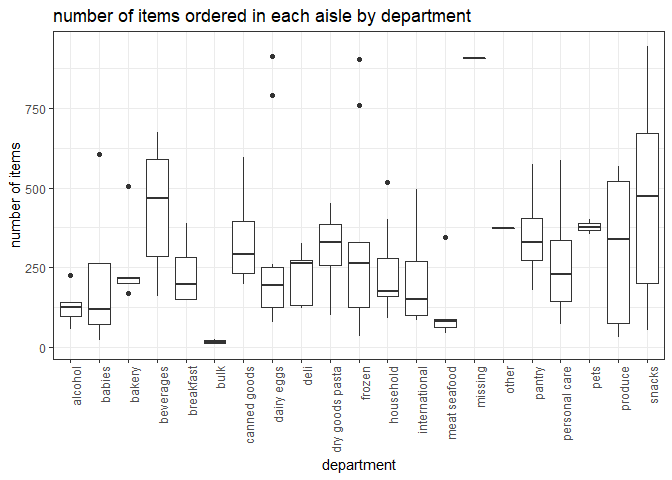
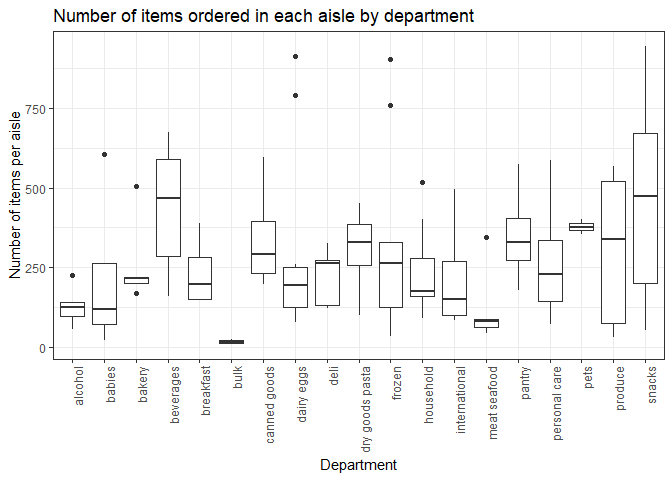
Proof read edits

diff --git a/homework_3.md b/homework_3.md
@@ -69,6 +69,11 @@ brfss %>%
   count(state) %>% 
     ggplot(aes(x = year, y = n, color = state)) +
   geom_line() +
+  labs(
+    title = "Distinct locations in each state",
+    x = "Year",
+    y = "Number of locations"
+  ) + 
   theme_bw()
 ```
 
@@ -118,8 +123,6 @@ brfss %>%
 Problem 2
 =========
 
-*Load data*
-
 Instacart is an online grocery shopping service. This instacart dataset contains 1384617 rows and 15 columns. The dataset contains one order from each of 131209 distinct users. Each row is a distinct product from one of these orders. The data set includes more information for each product, including the department and aisle it belongs to. As an example, the table below shows the products from just one order (order\_id = 1). From the table we can see that the first product is "Bulgarian Yogurt", which belongs to the "yogurt" aisle in the "dairy eggs" department.
 
 |  order\_id|  product\_id|  add\_to\_cart\_order|  reordered|  user\_id| eval\_set |  order\_number|  order\_dow|  order\_hour\_of\_day|  days\_since\_prior\_order| product\_name                                 |  aisle\_id|  department\_id| aisle                | department   |
@@ -168,27 +171,14 @@ instacart %>% distinct(aisle, product_name, .keep_all = TRUE) %>%
 ``` r
 instacart %>% distinct(aisle, product_name, .keep_all = TRUE) %>%
   group_by(aisle, department) %>% 
-  summarise(number_items = n()) %>% 
-  ggplot(aes(x =number_items, fill = department)) +
-  geom_density()
-```
-
-    ## Warning: Groups with fewer than two data points have been dropped.
-
-    ## Warning: Groups with fewer than two data points have been dropped.
-
-![](homework_3_files/figure-markdown_github/unnamed-chunk-2-1.png)
-
-``` r
-instacart %>% distinct(aisle, product_name, .keep_all = TRUE) %>%
-  group_by(aisle, department) %>% 
+  filter(!aisle %in% c("other", "missing")) %>% # removed other and missing because those aisles are un informative
   summarise(number_items = n()) %>%
   ggplot(aes(x = department, y = number_items)) +
   geom_boxplot() +
    labs(
-    title = "number of items ordered in each aisle by department",
-    x = "department",
-    y = "number of items"
+    title = "Number of items ordered in each aisle by department",
+    x = "Department",
+    y = "Number of items per aisle"
   ) + 
   theme_bw() +
   theme(axis.text.x = element_text(angle = 90, hjust = 1))
@@ -235,7 +225,7 @@ instacart %>%
 Problem 3
 =========
 
-*description of dataset* The National Oceanic and Atmospheric Association (NOAA) provides weather data. This dataset contains 2595176 rows and 7 columns. The data are for five variables measured from all weahter stations daily in New York state from January 1, 1981 through December 31, 2010. The variables are precipiation, snowfall, snow depth, maximum temperature, and minimum temperature. There is a lot of missing data, which is an issue for calculating descriptive statistics in r. Thus, missing values will often need to be filtered out.
+The National Oceanic and Atmospheric Association (NOAA) provides weather data. This dataset contains 2595176 rows and 7 columns. The data are for five variables measured from all weahter stations daily in New York state from January 1, 1981 through December 31, 2010. The variables are precipiation, snowfall, snow depth, maximum temperature, and minimum temperature. There is a lot of missing data, which is an issue for calculating descriptive statistics in r. Thus, missing values will often need to be filtered out.
 
 *Do some data cleaning. Create separate variables for year, month, and day. Ensure observations for temperature, precipitation, and snowfall are given in reasonable units. For snowfall, what are the most commonly observed values? Why?*
 
@@ -260,7 +250,7 @@ noaa_data = ny_noaa %>%
   mutate(prcp = prcp/10, tmax = as.numeric(tmax)/10, tmin = as.numeric(tmin)/10) # convert from tenths of mm and tench of degrees to whole units
 ```
 
-For snowfall, what are the most commonly observed values? Why?
+*For snowfall, what are the most commonly observed values? Why?*
 
 ``` r
 noaa_data %>% 
@@ -287,38 +277,47 @@ The most commonly observed value is 0 because on most days it does not snow.
 
 *Make a two-panel plot showing the average max temperature in January and in July in each station across years. Is there any observable / interpretable structure? Any outliers?*
 
-this wont work mutate(month = recode(month, 1 = "January", 7 = "July")) %&gt;%
-
 ``` r
 noaa_data %>% 
   filter(month %in% c(1, 7)) %>% # keeps only data for months of Jan and July
+  mutate(month = as.factor(month)) %>% # needed to convert to factor for the next line to work
+  mutate(month = recode(month, "1" = "January", "7" = "July")) %>%
   group_by(month, id, year) %>% 
   filter(!is.na(tmax)) %>%
   summarize(mean_tmax = mean(tmax)) %>%
   ggplot(aes(x = year, y = mean_tmax, color = id)) +
   geom_line() +
   facet_grid(~month) +
-  theme(legend.position = "none")
+  labs(
+    title = "Maximum temperature plot",
+    x = "Year",
+    y = "Mean maximum temperature"
+  ) + 
+  theme_bw() +
+  theme(legend.position = "none") +
+  theme(panel.spacing = unit(2, "lines")) # adds space between faceted plots
 ```
 
-![](homework_3_files/figure-markdown_github/unnamed-chunk-4-1.png)
+![](homework_3_files/figure-markdown_github/jan%20and%20july%20temp%20plot-1.png)
 
 *Make a two-panel plot showing (i) tmax vs tmin for the full dataset (note that a scatterplot may not be the best option); and (ii) make a plot showing the distribution of snowfall values greater than 0 and less than 100 separately by year.*
 
 ``` r
 library(hexbin) # geom_hex did not work until I loaded this package
-library(patchwork)
+library(patchwork) # this package lets me make the two panel plot with the last line of code in this chunk
 tmax_tmin = noaa_data %>% 
   filter(!is.na(tmax),
          !is.na(tmin)) %>%
   ggplot(aes(x = tmin, y = tmax)) +
   geom_hex() +
   labs(
-    title = "Temperature plot",
+    title = "Daily temperatures at all NY state weather stations",
     x = "Minimum daily temperature (C)",
     y = "Maxiumum daily temperature (C)"
   ) + 
-  theme_bw()
+  theme_bw() +
+  guides(fill=guide_legend(title="Count from\nJanuary 1, 1981\nthrough\nDecember 31, 2010"))
+ 
 
 snow_plot = noaa_data %>% 
   filter(snow > 0,
@@ -337,21 +336,4 @@ snow_plot = noaa_data %>%
 tmax_tmin / snow_plot
 ```
 
-![](homework_3_files/figure-markdown_github/plots-1.png)
-
-``` r
-snow_plot2 = noaa_data %>% 
-  filter(snow > 0,
-         snow < 100) %>% 
-  mutate(year = as.factor(year)) %>% 
-  ggplot(aes(x = snow, fill = year)) +
-  geom_histogram(position = "dodge") +
-  labs(
-    title = "snowfall distribution by year",
-    x = "snowfall (mm)",
-    y = "count"
-  ) + 
-  theme_bw() +
-  viridis::scale_color_viridis(discrete = TRUE) +
-  theme(axis.text.x = element_text(angle = 90, hjust = 1))
-```
+![](homework_3_files/figure-markdown_github/temp%20and%20snow%20plots%20plots-1.png)
